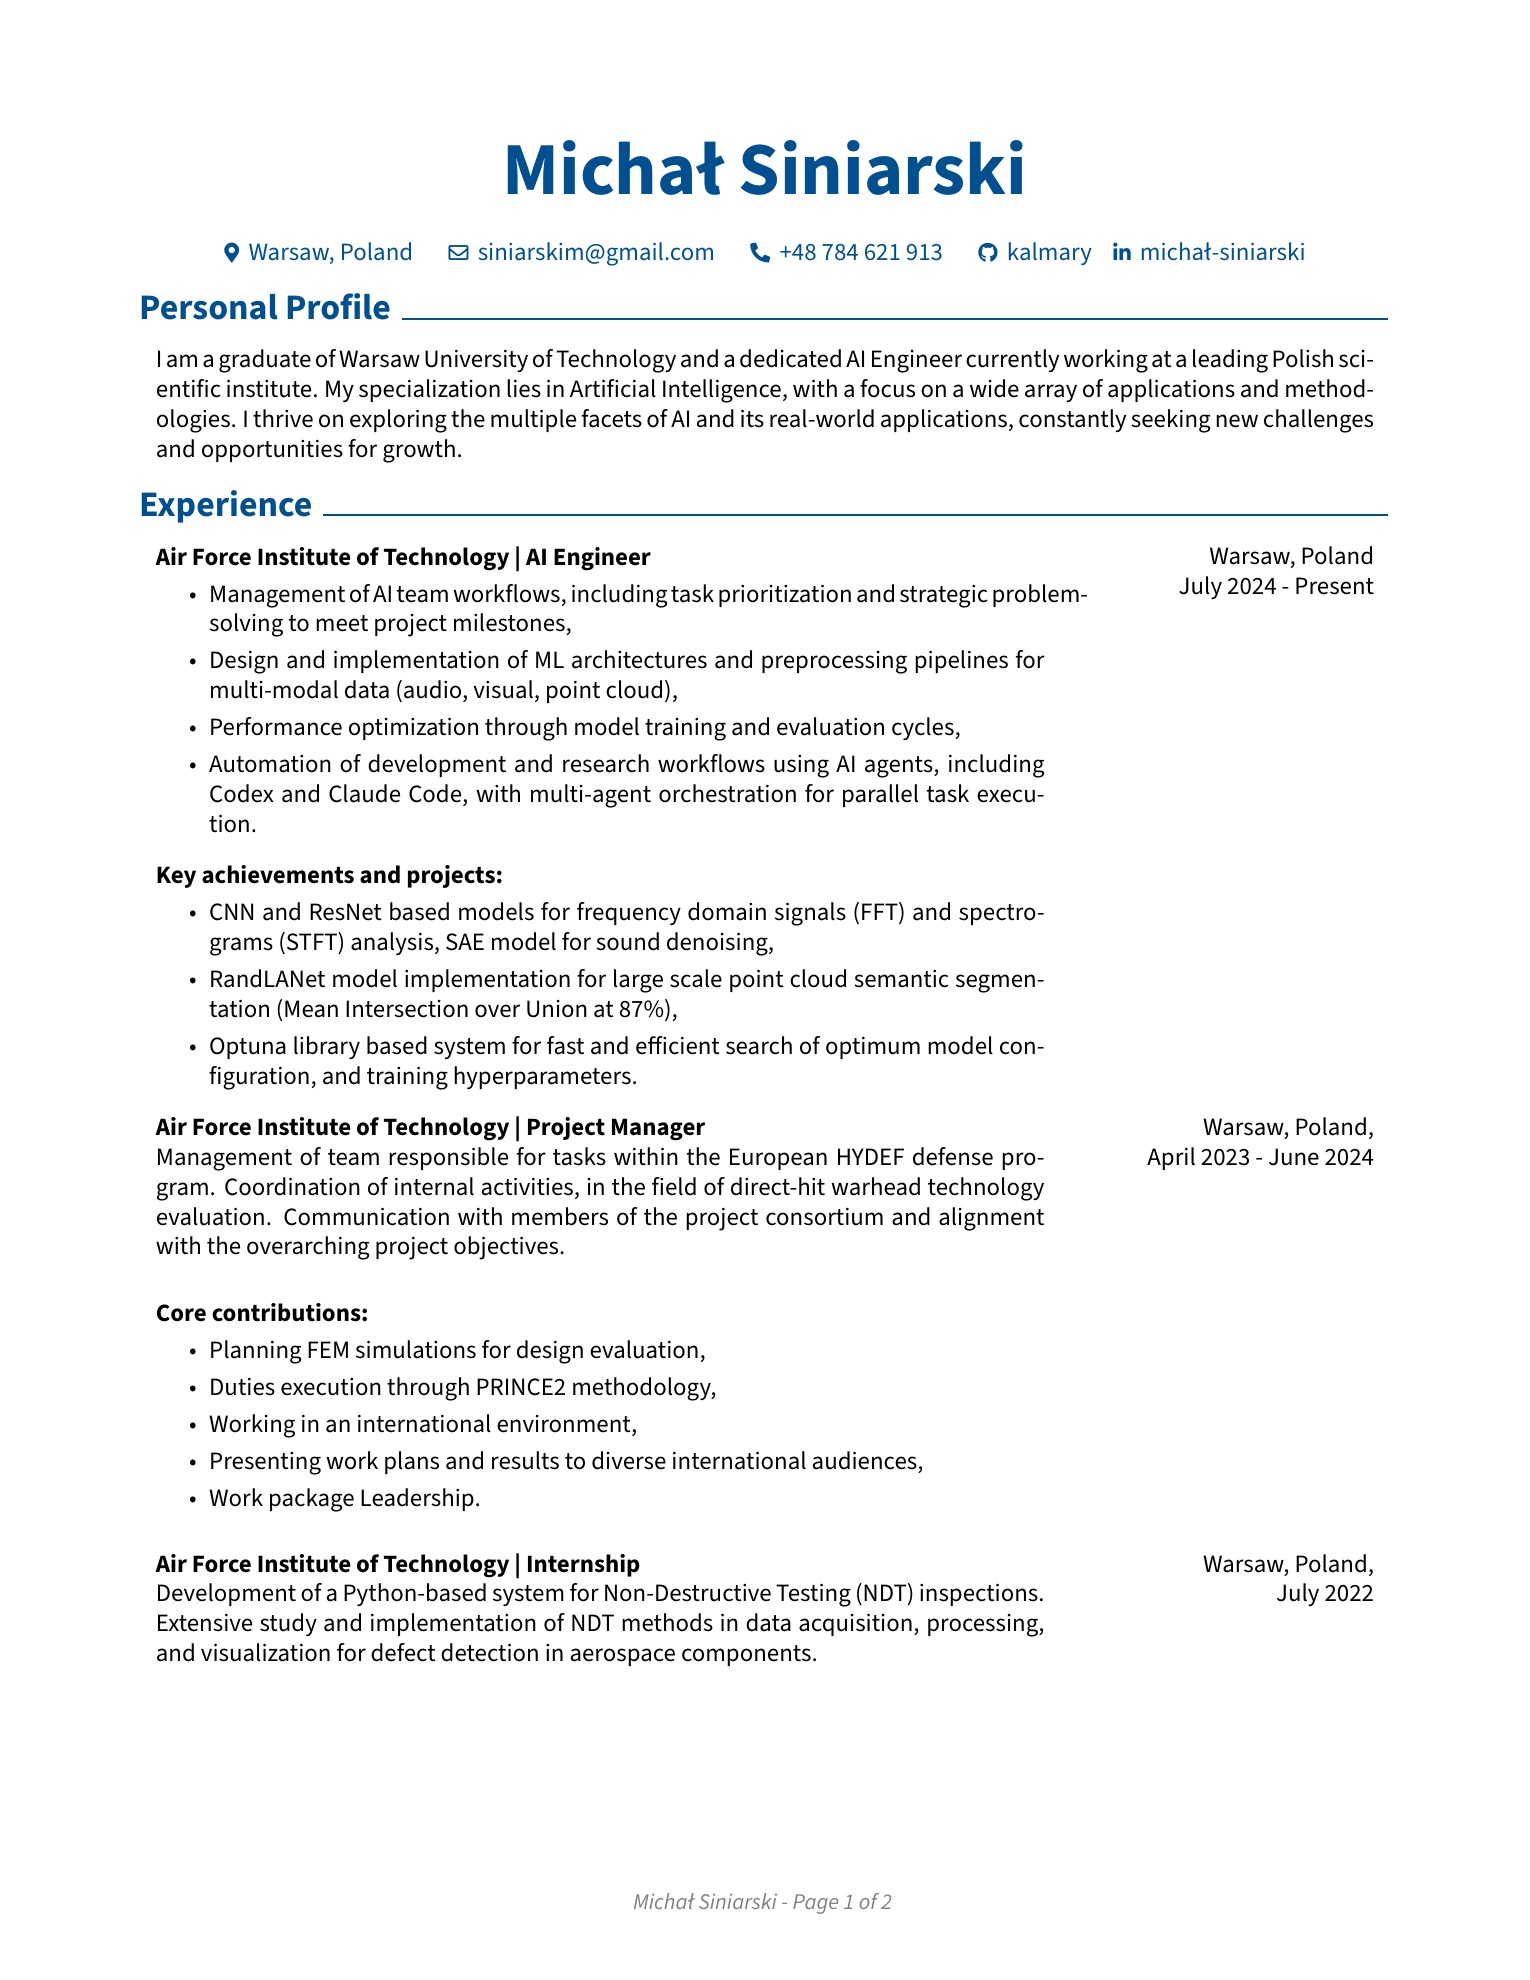
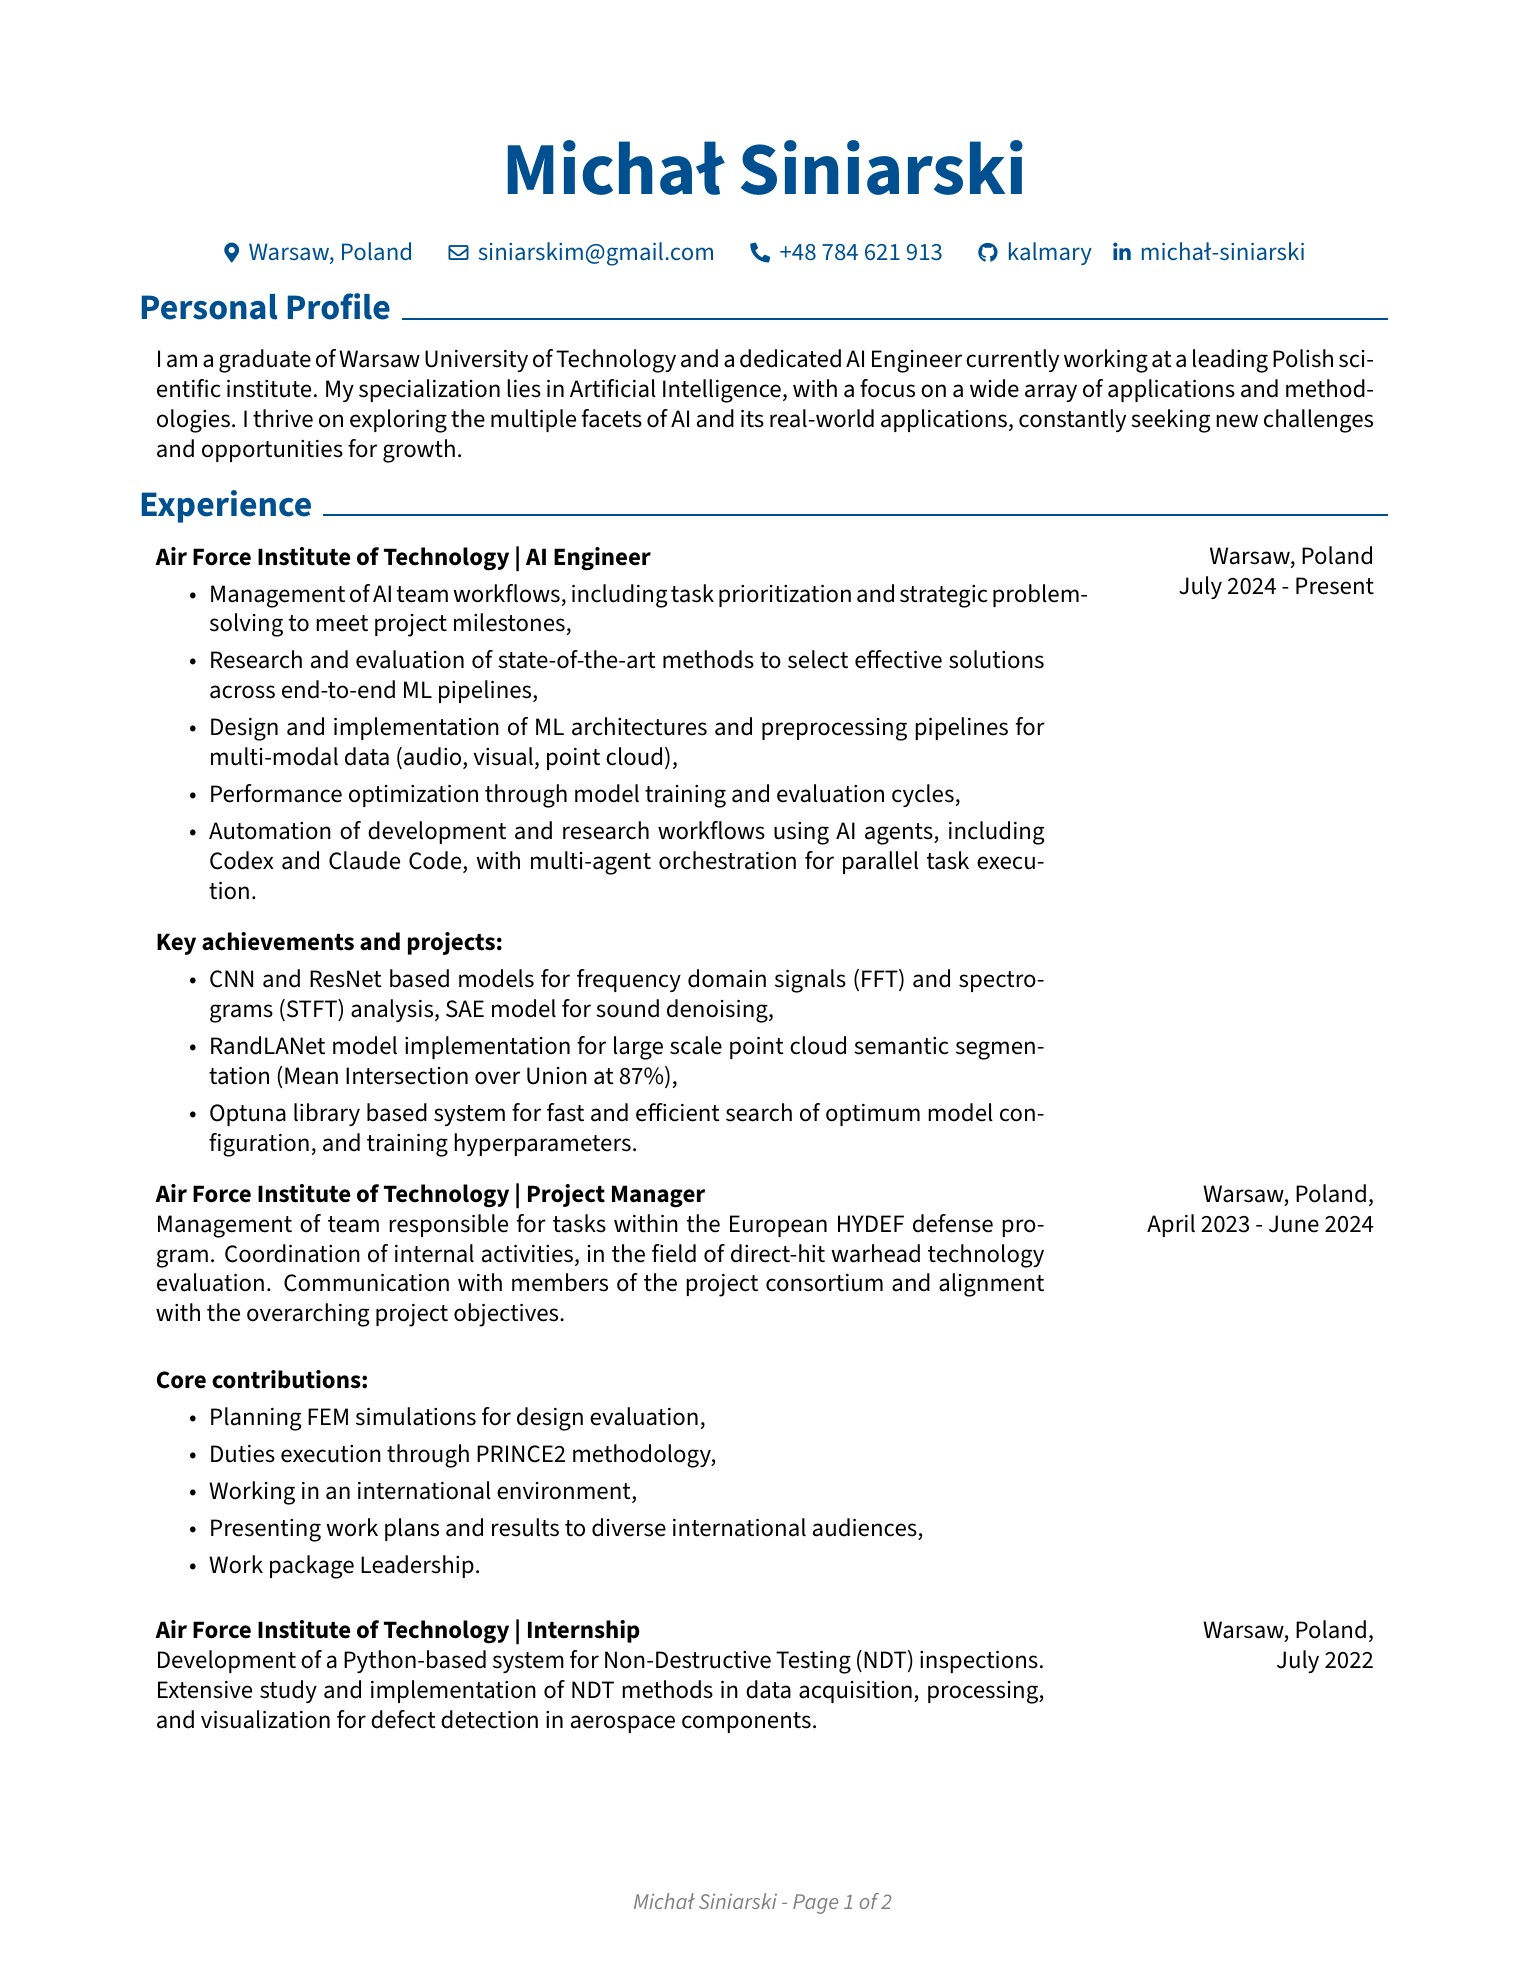
Experience-AI Engineer update

Changed region(s): [[0.0922, 0.3081, 0.6758, 0.8934], [0.768, 0.5545, 0.8908, 0.6162], [0.7987, 0.7702, 0.8908, 0.8318]]

diff --git a/text/experience.tex b/text/experience.tex
@@ -8,6 +8,7 @@
         \textbf{Air Force Institute of Technology | AI Engineer}
         \begin{highlights}
             \item Management of AI team workflows, including task prioritization and strategic problem-solving to meet project milestones,
+            \item Research and evaluation of state-of-the-art methods to select effective solutions across end-to-end ML pipelines,
             \item Design and implementation of ML architectures and preprocessing pipelines for multi-modal data (audio, visual, point cloud),
             \item Performance optimization through model training and evaluation cycles,
             \item Automation of development and research workflows using AI agents, including Codex and Claude Code, with multi-agent orchestration for parallel task execution.
